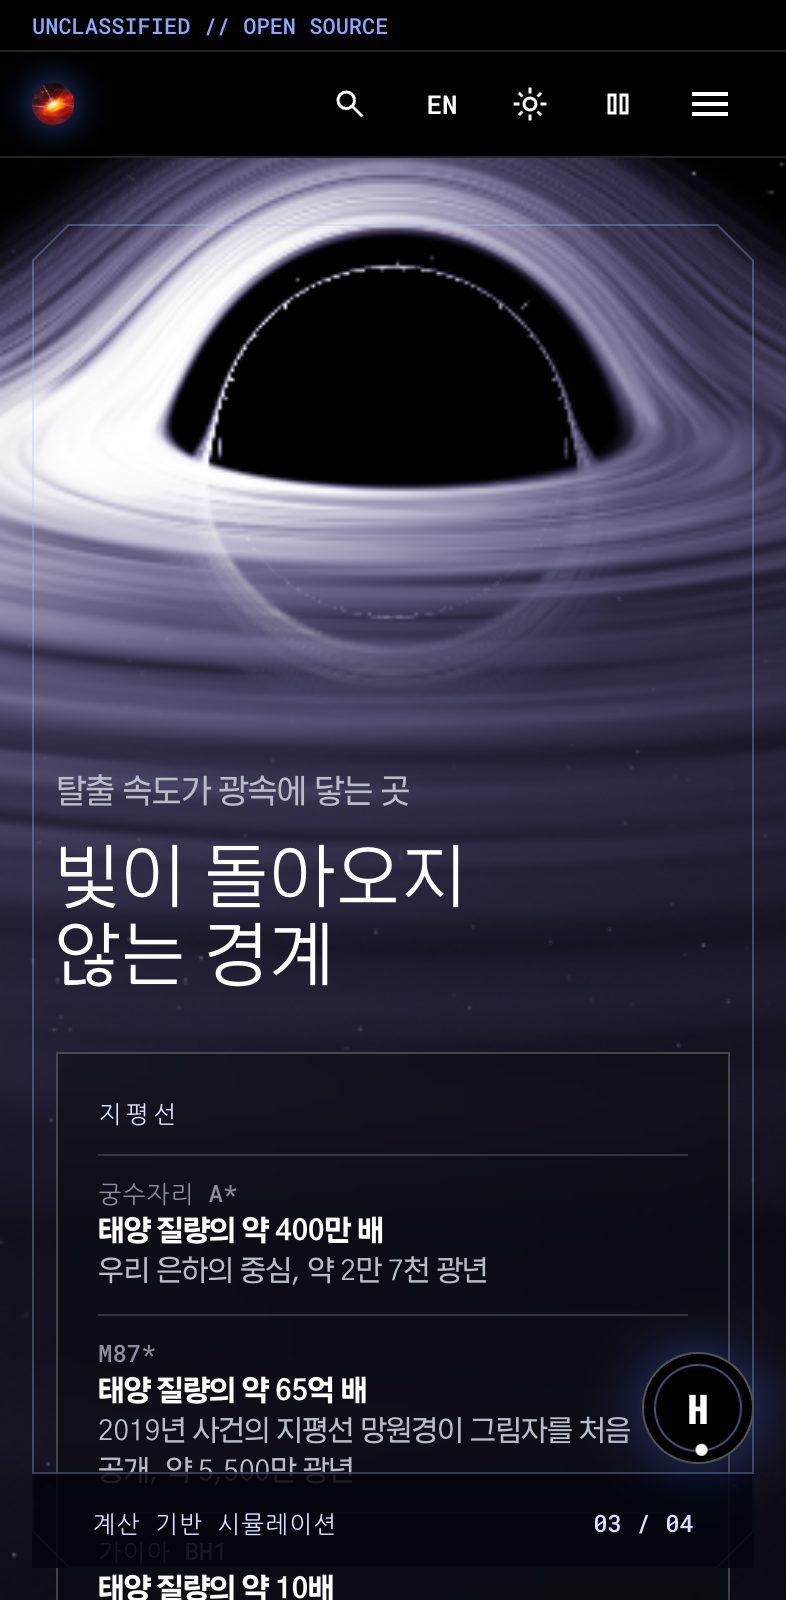
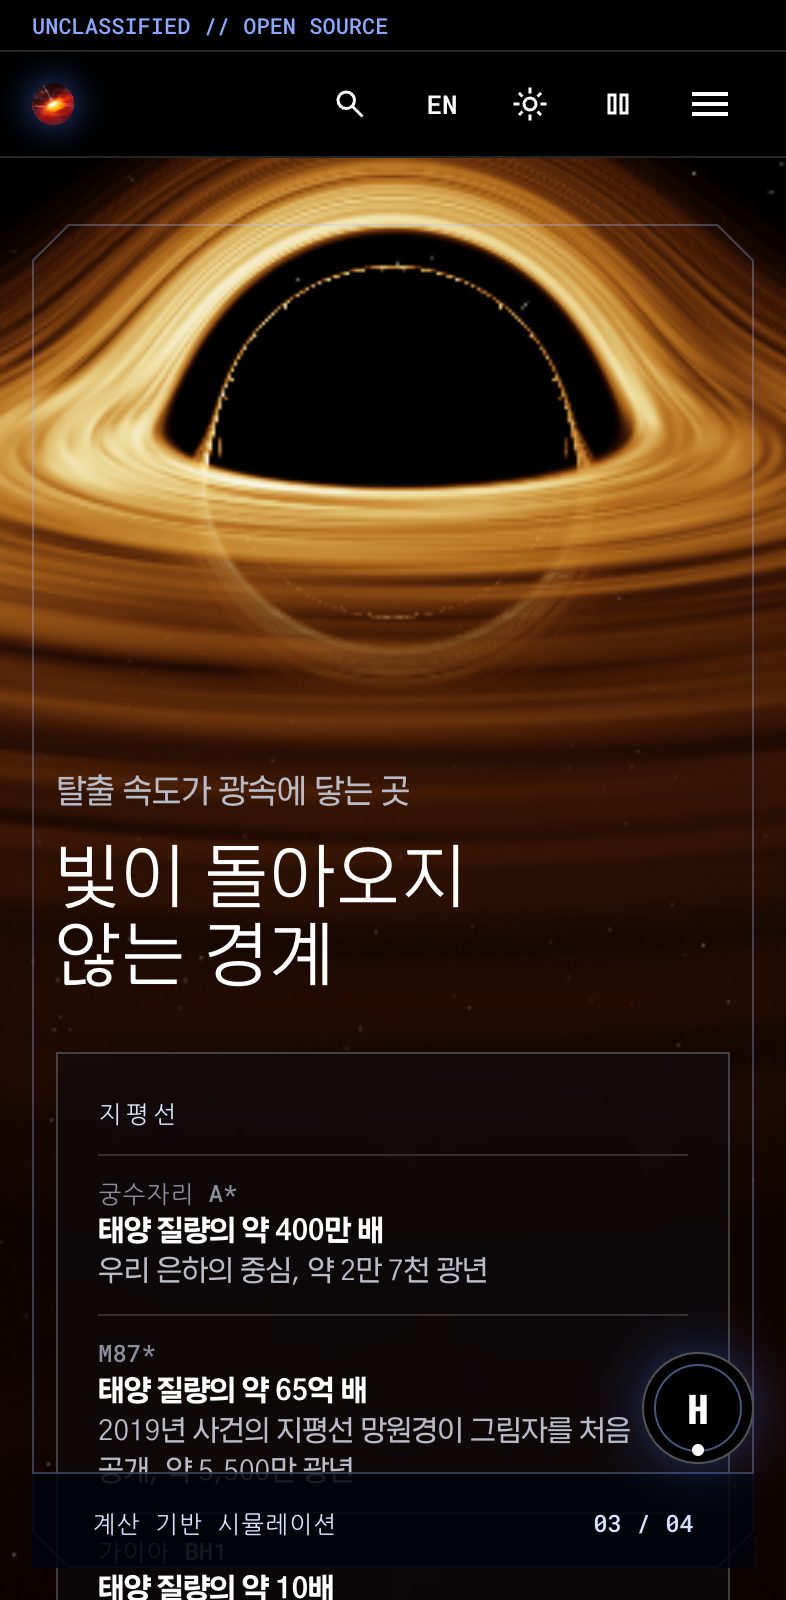
feat: 이벤트 블랙홀을 영화 <인터스텔라>의 가르강튀아 색감으로 (1.1.0)
- 원반 색: 보라·흰빛 대신 밝기에 따라 어두운 호박색 → 금빛 → 크림빛 백색(diskColor)
- 빛몰이(다가오는 쪽이 밝아짐)를 지수 2.4 → 0.6으로 약하게: 영화처럼 고리 전체가 고르게 빛남
- 배경 별은 따뜻한 백색, 안으로 떨어질 때의 빛줄기는 금빛. 입구의 푸른 고리와 정적 대체 화면은 그대로
- README 이벤트 화면(데스크톱·모바일) 다시 찍음. 촬영 스크립트에 일부만 찍는 ONLY 추가
  (통과 예측 사진도 ONLY를 따름)
- 개발 문서 블랙홀 설명, 버전 기록 1.1.0(의존성·컴포넌트 분리 포함)

diff --git a/src/pages/event/lib/shader.ts b/src/pages/event/lib/shader.ts
@@ -121,6 +121,13 @@ vec3 entrance(vec2 p, float t) {
 const float DISK_INNER = 2.5;
 const float DISK_OUTER = 17.0;
 
+// 영화 Interstellar의 Gargantua 색감: 식은 바깥은 어두운 호박색, 안쪽으로 갈수록 금빛을 지나 크림빛 백색이 됩니다.
+vec3 diskColor(float glow) {
+  vec3 color = mix(vec3(0.42, 0.11, 0.02), vec3(0.96, 0.44, 0.1), smoothstep(0.0, 0.3, glow));
+  color = mix(color, vec3(1.0, 0.74, 0.36), smoothstep(0.25, 0.65, glow));
+  return mix(color, vec3(1.0, 0.94, 0.8), smoothstep(0.6, 1.0, glow));
+}
+
 vec3 diskEmission(vec3 hit, vec3 rayDir, float t, inout float opacity) {
   float r = length(hit.xz);
   if (r < DISK_INNER || r > DISK_OUTER) return vec3(0.0);
@@ -132,14 +139,14 @@ vec3 diskEmission(vec3 hit, vec3 rayDir, float t, inout float opacity) {
   float density = smoothstep(DISK_INNER, DISK_INNER + 0.55, r) * smoothstep(DISK_OUTER, 7.5, r);
   float heat = pow(3.0 / r, 1.45);
 
-  // 다가오는 쪽이 밝아 보이는 상대론적 빛몰이
+  // 다가오는 쪽이 밝아 보이는 상대론적 빛몰이. 영화처럼 고리 전체가 고르게 빛나도록 약하게만 남깁니다.
   vec3 orbital = normalize(vec3(-hit.z, 0.0, hit.x));
   float beta = sqrt(0.5 / r);
   float doppler = 1.0 / (sqrt(1.0 / (1.0 - beta * beta)) * (1.0 - beta * dot(orbital, -rayDir)));
-  float intensity = density * heat * streaks * pow(doppler, 2.4);
+  float intensity = density * heat * streaks * pow(doppler, 0.6);
 
   float cover = clamp(density * (0.5 + streaks * 0.5), 0.0, 0.92);
-  vec3 tint = mix(vec3(0.46, 0.42, 0.78), vec3(1.0, 0.97, 1.0), clamp(intensity * 0.72, 0.0, 1.0));
+  vec3 tint = diskColor(clamp(intensity * 0.62, 0.0, 1.0));
   vec3 emitted = tint * intensity * 1.7 * (1.0 - opacity);
   opacity += (1.0 - opacity) * cover;
   return emitted;
@@ -185,7 +192,7 @@ vec3 blackHole(vec2 p, float t, float aspect) {
   // 그림자 가장자리처럼 끝까지 계산하지 못한 광선에는 별을 찍지 않습니다.
   if (escaped) {
     vec2 lensed = screen * (1.0 + 0.2 / max(dot(screen, screen), 0.04));
-    color += (1.0 - opacity) * stars(lensed + 3.0, 30.0) * vec3(0.8, 0.86, 1.0) * 0.9;
+    color += (1.0 - opacity) * stars(lensed + 3.0, 30.0) * vec3(0.98, 0.92, 0.84) * 0.85;
   }
 
   // 떨어지는 동안 사방으로 찢어지는 빛줄기
@@ -193,7 +200,7 @@ vec3 blackHole(vec2 p, float t, float aspect) {
     float radius = length(p);
     vec2 around = p / max(radius, 0.001);
     float rays = pow(noise3(vec3(around * 9.0, radius * 1.4 - t * 2.6)), 5.0);
-    color += vec3(0.42, 0.56, 1.0) * rays * 7.0 * sin(uFall * 3.14159) * smoothstep(0.08, 0.9, radius);
+    color += vec3(1.0, 0.62, 0.26) * rays * 6.0 * sin(uFall * 3.14159) * smoothstep(0.08, 0.9, radius);
     color *= 1.0 - smoothstep(0.72, 1.0, uFall);
   }
   return color;

diff --git a/docs/development.md b/docs/development.md
@@ -47,7 +47,7 @@ Histoire 1.0 beta가 Vite 7만 지원해 `vite`를 7.3으로 고정하고 `overr
 - 구조: 홈 별자리는 하늘 배치(`lib/sky-scene.ts`), 캔버스 그리기(`lib/sky-paint.ts`), 끌어서 방위 돌리기(`lib/heading-drag.ts`), 화면 글자(`SkyOverlay.vue`)로, 지상 궤적 지도(`widgets/ground-track-map`)는 투영·회전(`lib/projection.ts`), 그리기(`lib/paint.ts`), 궤적(`lib/track.ts`), 확대(`lib/zoom.ts`), 도구·범례 컴포넌트로 나눴습니다. 이벤트 화면은 장마다 컴포넌트(`SignalChapter` 등)를 두고, 장의 배치(`.chapter*`)와 여러 장이 함께 쓰는 글자·링크 모양은 `EventPage.vue`에 남겼습니다(자식의 바깥 요소에도 부모의 범위 지정 스타일이 적용됨).
 - 이벤트 일정(`entities/sky`의 `upcomingSkyEvents`): 실제 행사가 아니라 계산된 천문 현상입니다.
 - 일식·월식(`entities/sky`의 `eclipseWindow`, `eyepieceScene`): 일식은 관측지 기준(`SearchLocalSolarEclipse`), 월식은 반영식 시작~끝입니다. 망원경 시야는 작은 각도라 평면으로 근사하고, 지구 그림자는 지구 중심 벡터(`GeoVector`)로 구해 대기 효과로 2% 키웁니다. `Observer(0, 0, 0)`은 지구 중심이 아니라 적도 위 지점이므로 쓰지 않습니다.
-- 블랙홀(`pages/event/lib/shader.ts`): 슈바르츠실트 반지름을 1로 둔 광선 적분 근사입니다. 원반의 색과 무늬는 연출이고, 프레임이 밀리면 내부 해상도를 낮춥니다. 셰이더 컴파일이 첫 글자 표시를 늦추지 않게 한가할 때(`requestIdleCallback`) 켜고, GPU 가속이 없는 기기(`failIfMajorPerformanceCaveat`)에서는 정적 대체 화면을 씁니다. Cypress는 CI에 GPU가 없어 `allowSoftware`로 컴파일만 확인합니다. 참고 사이트의 이미지나 코드는 쓰지 않았습니다.
+- 블랙홀(`pages/event/lib/shader.ts`): 슈바르츠실트 반지름을 1로 둔 광선 적분 근사입니다. 원반의 색과 무늬는 연출로, 영화 Interstellar의 가르강튀아 색감(식은 바깥의 어두운 호박색 → 금빛 → 안쪽의 크림빛 백색)을 따르고, 다가오는 쪽이 밝아지는 빛몰이도 영화처럼 약하게만 둡니다(1.1.0, 그 전에는 보라·흰빛). 입구 장면의 푸른 고리는 그대로입니다. 원반 그림을 바꾸면 README 사진을 `ONLY=event-horizon,mobile-event bun run screenshots`로 다시 찍습니다. 프레임이 밀리면 내부 해상도를 낮춥니다. 셰이더 컴파일이 첫 글자 표시를 늦추지 않게 한가할 때(`requestIdleCallback`) 켜고, GPU 가속이 없는 기기(`failIfMajorPerformanceCaveat`)에서는 정적 대체 화면을 씁니다. Cypress는 CI에 GPU가 없어 `allowSoftware`로 컴파일만 확인합니다. 참고 사이트의 이미지나 코드는 쓰지 않았습니다.
 
 ## Histoire 배포와 바로가기
 

diff --git a/CHANGELOG.md b/CHANGELOG.md
@@ -1,5 +1,15 @@
 # 버전 기록
 
+## 1.1.0 (2026-11-20)
+
+v1.0.0 계획에서 1.0 이후로 미룬 일과 이벤트 블랙홀 색감.
+
+- 이벤트 블랙홀을 영화 <인터스텔라>의 가르강튀아 색감으로: 원반은 식은 바깥의 어두운 호박색에서 안쪽으로 갈수록 금빛을 지나 크림빛 백색이 되고, 다가오는 쪽이 밝아지는 빛몰이는 영화처럼 약하게 줄여 고리 전체가 고르게 빛남. 배경 별은 따뜻한 백색, 안으로 떨어질 때의 빛줄기는 금빛. 입구의 푸른 고리는 그대로
+- 500줄 넘는 컴포넌트 3개를 나눔(그림·화면은 그대로): ConstellationSky 570→201줄, GroundTrackMap 569→299줄, EventPage 566→201줄. 나누기 전 그림을 캔버스 호출 지문·문서 스냅샷으로 고정하고 나눈 뒤 같음을 확인했고, 실제 브라우저에서 세 화면의 계산 스타일·배치도 같음. 떼어 낸 함수에 단위 테스트 24개
+- 의존성: TypeScript 6, Vitest 5, satellite.js 7(앱이 쓰지 않는 WASM 대량 계산 모듈은 빌드에서 뺌)과 같은 메이저 안의 패치. Vite 8·@quasar/vite-plugin 2·Cypress 16은 Histoire가 Vite 8 지원을 배포할 때까지, TypeScript 7은 vue-tsc·typescript-eslint가 지원할 때까지 보류
+- 테스트 안정화: 궤도 데이터가 10일을 넘어 경고가 앞에 붙으면 실패하던 카탈로그 E2E, 설정의 주소를 따르지 않던 Histoire 이동 E2E, 파일이 끝난 뒤 ScrollTrigger 타이머 때문에 가끔 남던 단위 테스트 오류
+- README 이벤트 화면(데스크톱·모바일 블랙홀)을 다시 찍음. 촬영 스크립트에 일부만 찍는 `ONLY` 추가
+
 ## 1.0.1 (2026-11-16)
 
 - 링크 공유 미리보기(`public/og.jpg`)에 남아 있던 옛 로고(파란 점)를 지금 로고(쿼사르 사진)로: 0.7.7에서 머리글 로고와 README 화면은 바꿨지만 공유 이미지는 그대로였음. 지금 홈 첫 화면(1440×900 배치)을 1200×750으로 찍어 바꿈
